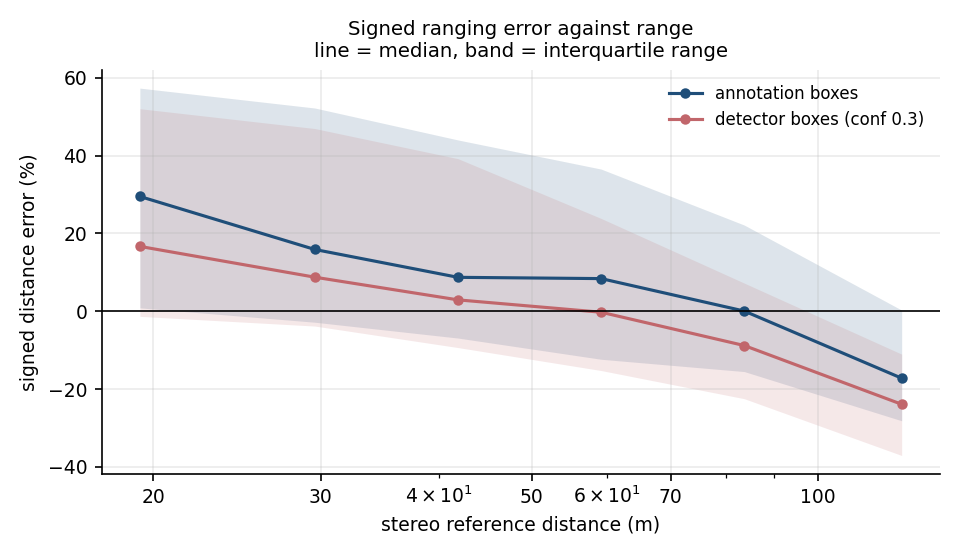
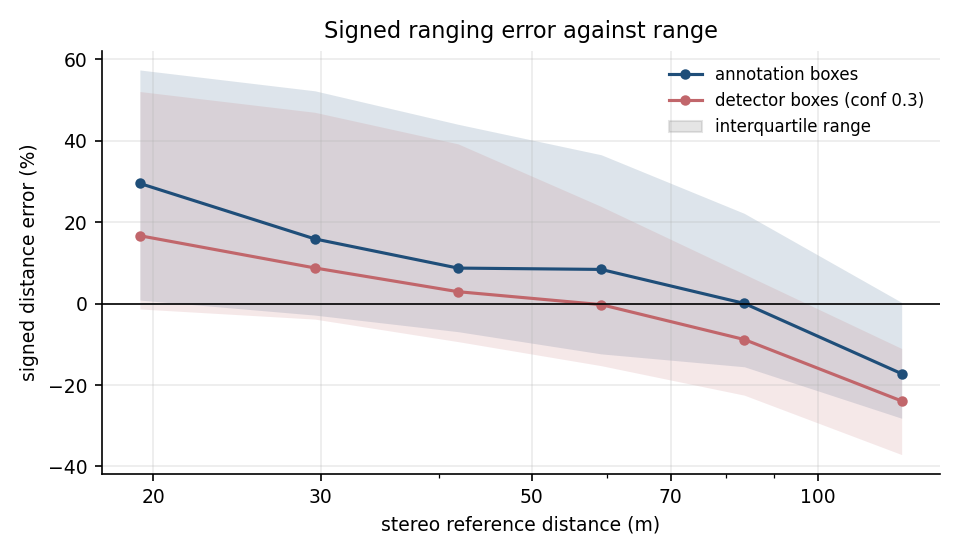
fix triangle refs and clip artifact

diff --git a/tools/figures.py b/tools/figures.py
@@ -55,14 +55,19 @@ def fig_error_vs_range():
         ax.fill_between(c, lo, hi, color=col, alpha=0.15, linewidth=0)
         ax.plot(c, m, "o-", color=col, label=lab, markersize=4)
 
+    # Legend entry for the shaded uncertainty band. The actual bands above
+    # retain each series colour; this neutral proxy explains their meaning.
+    ax.fill_between([], [], [], color="gray", alpha=0.2,
+                    label="interquartile range")
+
     ax.axhline(0, color="black", linewidth=0.8)
     ax.set_xscale("log")
     ax.set_xticks([20, 30, 50, 70, 100])
     ax.get_xaxis().set_major_formatter(mticker.ScalarFormatter())
+    ax.get_xaxis().set_minor_formatter(mticker.NullFormatter())
     ax.set_xlabel("stereo reference distance (m)")
     ax.set_ylabel("signed distance error (%)")
-    ax.set_title("Signed ranging error against range\n"
-                 "line = median, band = interquartile range", fontsize=9.5)
+    ax.set_title("Signed ranging error against range")
     ax.legend(frameon=False, fontsize=8)
     fig.tight_layout()
     fig.savefig(f"{FIG}/error_vs_range.png")
@@ -77,31 +82,24 @@ def fig_size_prior(split="train"):
         return
     H = d[:, 1]
 
-    fig, ax = plt.subplots(figsize=(6.4, 3.8))
+    fig, ax = plt.subplots(figsize=(6.4, 3.6))
     ax.hist(H, bins=np.arange(0, 2100, 50), color=C_GT, alpha=0.85)
     top = ax.get_ylim()[1]
 
     ax.axvline(H_PRIOR_MM, color=C_DET, linewidth=2,
                label=f"prior used: {H_PRIOR_MM} mm")
 
-    # VwV-StVO nominal dimensions are shape dependent, so round and
-    # triangular classes are marked separately rather than as one scale.
-    round_mm = [(420, "1"), (600, "2"), (750, "3")]
-    tri_mm = [(630, "1"), (900, "2"), (1260, "3")]
-    for v, g in round_mm:
+    # Round-sign diameters only. VwV-StVO triangle figures are side
+    # lengths, not vertical extents, so they do not belong on this axis.
+    for v in (420, 600, 750):
         ax.axvline(v, color="black", linestyle=":", linewidth=0.9)
-        ax.text(v, top * 0.97, f"round Gr.{g}", rotation=90, fontsize=6.5,
-                ha="right", va="top")
-    for v, g in tri_mm:
-        ax.axvline(v, color=C_3, linestyle="--", linewidth=0.9, alpha=0.8)
-        ax.text(v, top * 0.55, f"triangle Gr.{g}", rotation=90, fontsize=6.5,
-                ha="right", va="top", color=C_3)
+        ax.text(v, top * 0.98, f"{v}", fontsize=7, ha="right", va="top")
+    ax.text(0.98, 0.70, "dotted: nominal round-sign\ndiameters (VwV-StVO)",
+            transform=ax.transAxes, fontsize=7.5, ha="right", va="top")
 
     ax.set_xlabel("physical sign height implied by stereo reference (mm)")
     ax.set_ylabel("signs")
-    ax.set_title(f"Sign height recovered by inverting the ranging equation\n"
-                 f"{split} split, n={len(H)}, near-square boxes >= 30 px",
-                 fontsize=9.5)
+    ax.set_title(f"Implied sign height, {split} split (n={len(H)})")
     ax.legend(frameon=False, fontsize=8, loc="upper right")
     fig.tight_layout()
     fig.savefig(f"{FIG}/size_prior.png")
@@ -135,7 +133,7 @@ def fig_coverage():
     ax.set_ylim(0, 105)
     ax.set_xlabel("stereo reference distance (m)")
     ax.set_ylabel("signs receiving an estimate (%)")
-    ax.set_title(f"Coverage falls with range (conf {CONF})", fontsize=9.5)
+    ax.set_title(f"Coverage falls with range (conf {CONF})")
     fig.tight_layout()
     fig.savefig(f"{FIG}/coverage_vs_range.png")
     plt.close(fig)
@@ -161,7 +159,7 @@ def fig_operating_point():
     a1.set_xlabel("confidence threshold")
     a1.set_ylabel("score")
     a1.set_ylim(0.25, 1.0)
-    a1.set_title("Threshold sweep on detector-val cities", fontsize=9.5)
+    a1.set_title("Threshold sweep on detector-val cities")
     a1.legend(frameon=False, fontsize=8)
 
     a2.plot(100 * rec, 100 * prec, "o-", color=C_GT, ms=4)
@@ -172,8 +170,7 @@ def fig_operating_point():
             markerfacecolor="none", markeredgewidth=2)
     a2.set_xlabel("recall (%)")
     a2.set_ylabel("precision (%)")
-    a2.set_title("Precision against recall\ncircled point maximises F1",
-                 fontsize=9.5)
+    a2.set_title("Precision against recall")
 
     fig.tight_layout()
     fig.savefig(f"{FIG}/operating_point.png")
@@ -193,7 +190,17 @@ def fig_paired():
     dh = 100 * (Zgt[m] / Zdet[m] - 1)       # detector box height vs annotation
 
     fig, ax = plt.subplots(figsize=(5.6, 3.4))
-    ax.hist(np.clip(dh, -40, 40), bins=np.arange(-40, 41, 2),
+
+    # Keep a wider visible range so large detector box-height errors are not
+    # artificially piled up at +/-40%. Values beyond +/-60% are still clipped
+    # to the boundary, so report their counts explicitly in the console.
+    lo_tail = int(np.sum(dh < -60))
+    hi_tail = int(np.sum(dh > 60))
+    if lo_tail or hi_tail:
+        print(f"  box-height tail beyond plot range: {lo_tail} < -60%, "
+              f"{hi_tail} > +60%")
+
+    ax.hist(np.clip(dh, -80, 80), bins=np.arange(-80, 81, 4),
             color=C_DET, alpha=0.85)
     ax.axvline(0, color="black", linewidth=0.9)
     med = np.median(np.abs(dh))
@@ -202,9 +209,7 @@ def fig_paired():
     ax.axvline(-med, color=C_GT, linestyle="--", linewidth=1.4)
     ax.set_xlabel("detector box height error vs annotation (%)")
     ax.set_ylabel("signs")
-    ax.set_title("What the detector contributes\n"
-                 "dZ/Z = -dh/h, so this is directly a distance error",
-                 fontsize=9.5)
+    ax.set_title("Detector box height error")
     ax.legend(frameon=False, fontsize=8)
     fig.tight_layout()
     fig.savefig(f"{FIG}/box_height_error.png")
